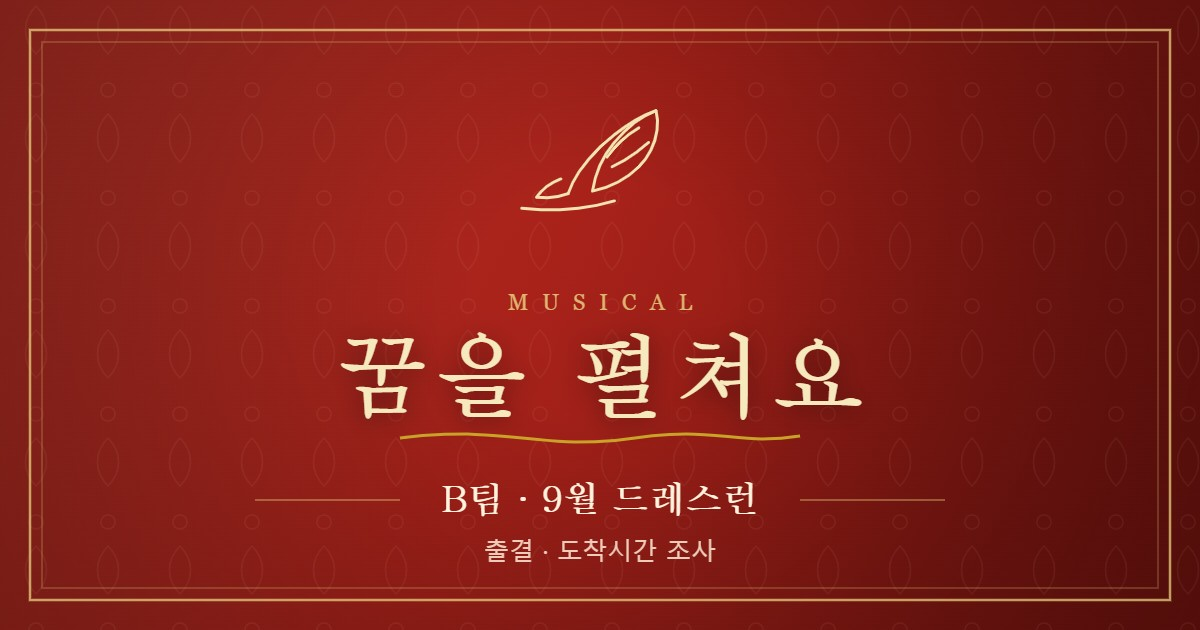
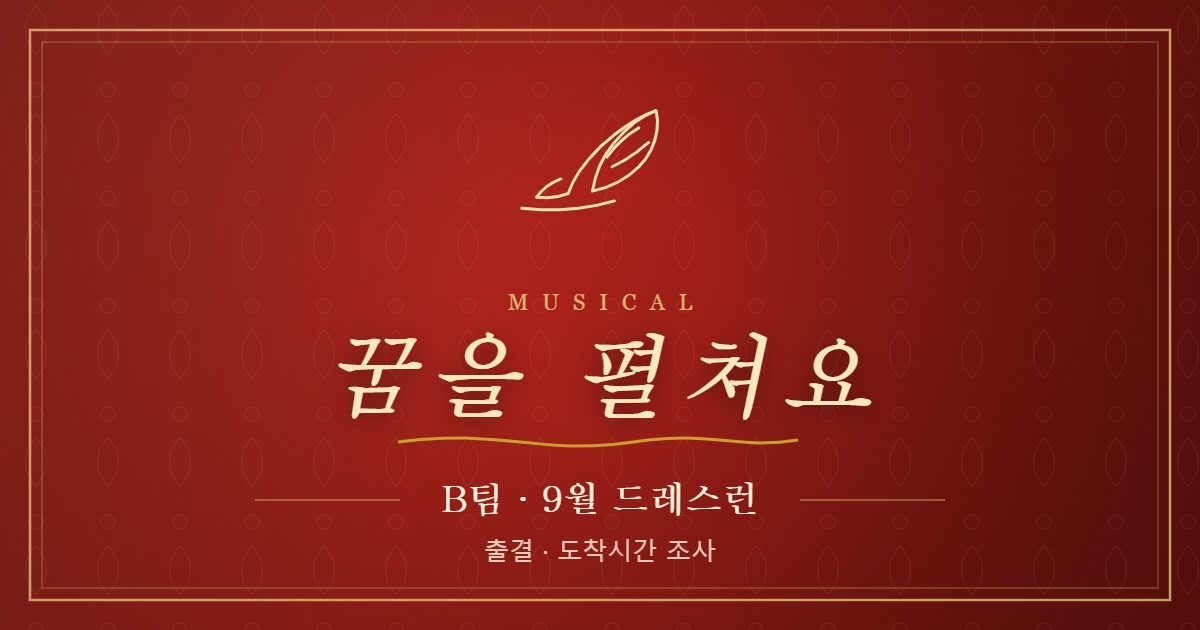
Add files via upload

diff --git a/redbook/index.html b/redbook/index.html
@@ -94,14 +94,15 @@ body{
   animation:draw 1.15s cubic-bezier(.55,.1,.35,1) .35s forwards}
 @keyframes draw{to{stroke-dashoffset:0}}
 
-.ititle{position:relative;z-index:2;font-family:var(--myeongjo);font-weight:800;
-  font-size:35px;letter-spacing:2px;margin-top:6px;color:var(--gold-pale);
+.ititle{position:relative;z-index:2;display:inline-block;font-family:var(--myeongjo);font-weight:800;
+  font-size:35px;letter-spacing:4px;text-indent:4px;margin-top:6px;color:var(--gold-pale);
   text-shadow:0 2px 16px rgba(58,20,15,.7), 0 0 30px rgba(201,162,39,.35);
-  opacity:0;animation:fadeUp .8s ease 1.15s both}
+  opacity:0;animation:fadeUpSkew .8s ease 1.15s both}
 .ikr{position:relative;z-index:2;font-family:var(--myeongjo);font-weight:800;font-size:15px;
   letter-spacing:9px;text-indent:9px;color:rgba(243,227,176,.82);
   opacity:0;animation:fadeUp .8s ease 1.35s both}
 @keyframes fadeUp{from{opacity:0;transform:translateY(9px)}to{opacity:1;transform:none}}
+@keyframes fadeUpSkew{from{opacity:0;transform:translateY(9px) skewX(-12deg)}to{opacity:1;transform:skewX(-12deg)}}
 
 .isheen{position:absolute;top:0;left:-40%;width:32%;height:100%;z-index:3;pointer-events:none;
   background:linear-gradient(100deg,transparent,rgba(255,246,214,.5),transparent);
@@ -126,7 +127,7 @@ header::after{content:"";position:absolute;top:0;left:-55%;width:38%;height:100%
 @keyframes sheen{0%{left:-55%}26%{left:145%}100%{left:145%}}
 .mus{position:relative;font-family:var(--caps);font-size:10px;letter-spacing:6px;text-indent:6px;
   color:rgba(233,206,126,.8);margin-bottom:2px}
-.logo{position:relative;font-family:var(--myeongjo);font-weight:800;font-size:34px;letter-spacing:2px;
+.logo{position:relative;display:inline-block;font-family:var(--myeongjo);font-weight:800;font-size:34px;letter-spacing:4px;text-indent:4px;transform:skewX(-12deg);
   line-height:1.05;color:var(--gold-pale);
   text-shadow:0 2px 14px rgba(40,12,10,.6), 0 0 26px rgba(201,162,39,.28)}
 .flourish{position:relative;display:block;width:170px;height:20px;margin:2px auto 6px}
